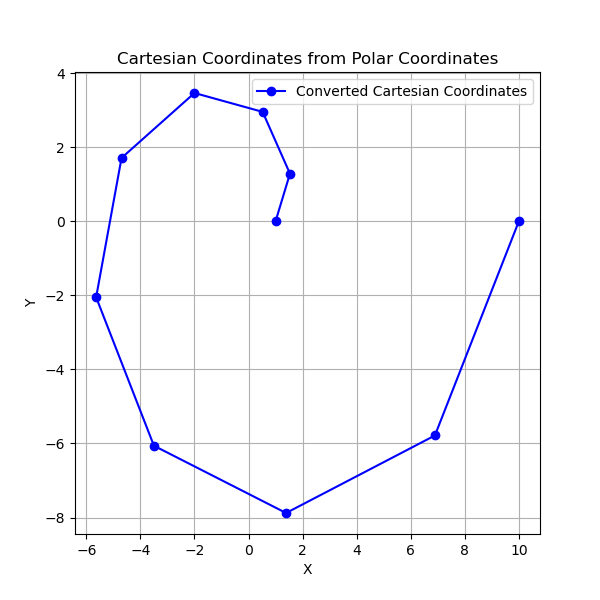
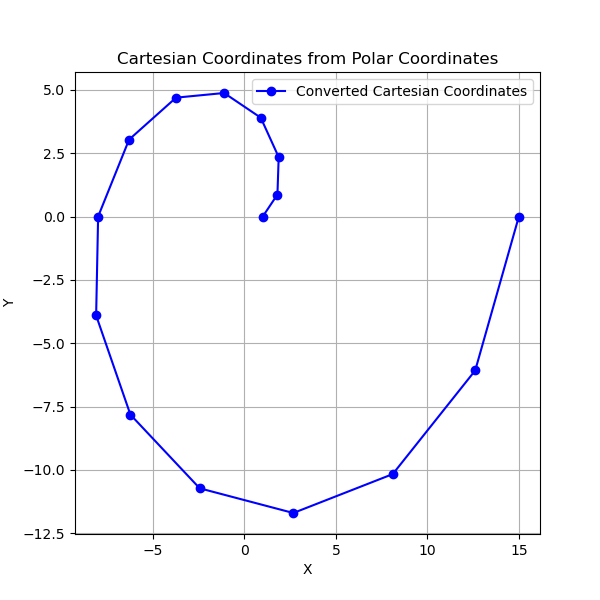
首次提交

diff --git a/main.py b/main.py
@@ -3,7 +3,7 @@ import matplotlib.pyplot as plt
 
 # 示例极坐标数据 (r, theta)
 # r 是径向距离，theta 是角度 (弧度制)
-r = np.array([1, 2, 3, 4, 5, 6, 7, 8, 9, 10])
+r = np.array([1, 2, 3, 4, 5, 6, 7, 8, 9, 10, 11, 12, 13, 14, 15])
 theta = np.linspace(0, 2 * np.pi, len(r))  # 生成等间隔的角度 (0 到 2*pi)
 
 # 1. 将极坐标转换为笛卡尔坐标 (x, y)

diff --git a/README.md b/README.md
@@ -1,1 +1,1 @@
-Hello, everyone this is my repository
+First of all, I do not think this is a good piece of work.
